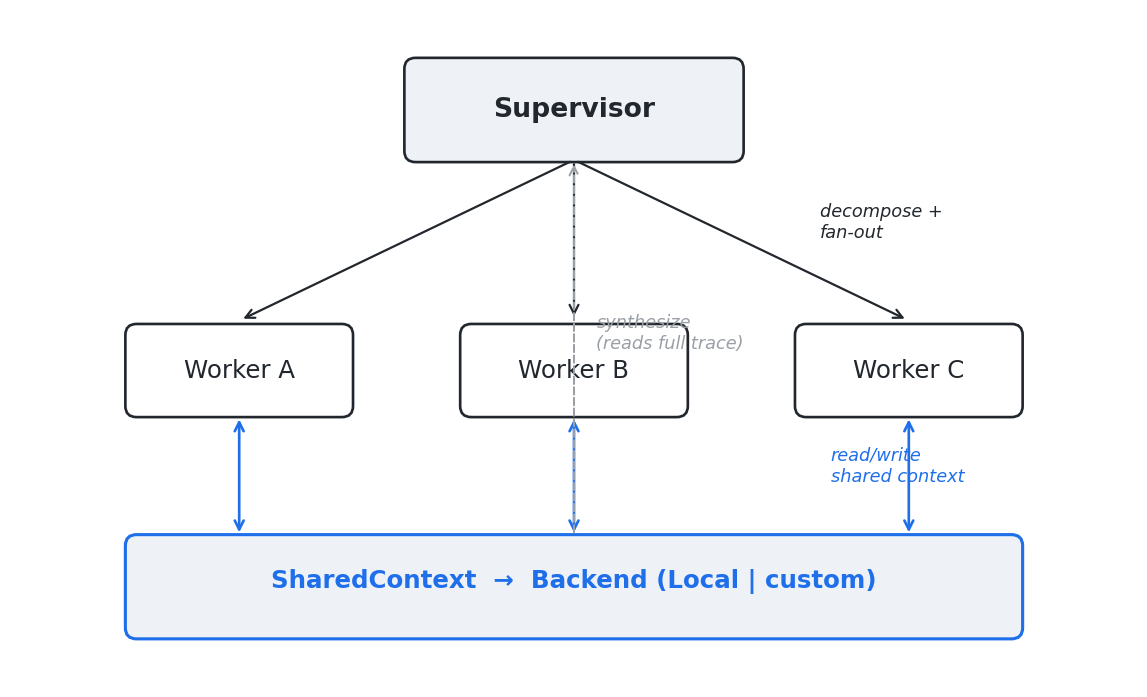
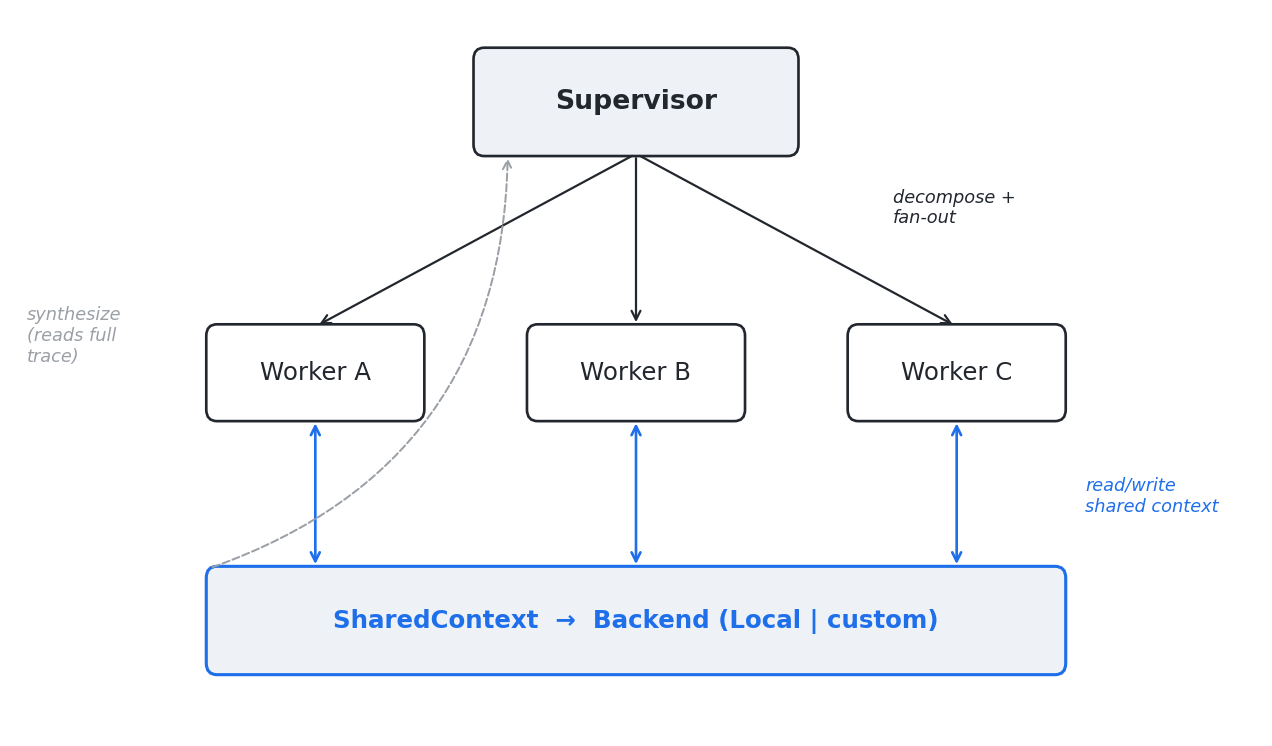
polish: tier-1/2 OSS launch improvements
- Fix architecture diagram: labels no longer overlap worker boxes
- Add CI badge to README badge row
- Add 'What this is not' callout near top of README
- Reframe benchmark section: lead with coordination wins, demote accuracy tie
- Soften 'Don't use it if' for existing framework users
- Add comparison table footnote about adjacent tools
- Trim v0.2 roadmap from 5 items to 2 focused ones
- Set GitHub repo description and topics

diff --git a/docs/diagrams/_make_architecture.py b/docs/diagrams/_make_architecture.py
@@ -25,14 +25,14 @@ LIGHT = "#eef2f7"
 
 
 def main() -> None:
-    fig, ax = plt.subplots(figsize=(9, 5.4), dpi=160)
-    ax.set_xlim(0, 100)
-    ax.set_ylim(0, 60)
+    fig, ax = plt.subplots(figsize=(10, 5.8), dpi=160)
+    ax.set_xlim(-8, 108)   # extra margins so side labels aren't clipped
+    ax.set_ylim(0, 62)
     ax.axis("off")
 
     # Supervisor box (top)
     sup = patches.FancyBboxPatch(
-        (35, 47),
+        (35, 50),
         30,
         9,
         boxstyle="round,pad=0.2,rounding_size=1.0",
@@ -43,7 +43,7 @@ def main() -> None:
     ax.add_patch(sup)
     ax.text(
         50,
-        51.5,
+        54.5,
         "Supervisor",
         ha="center",
         va="center",
@@ -57,7 +57,7 @@ def main() -> None:
     worker_names = ["Worker A", "Worker B", "Worker C"]
     for x, name in zip(worker_x, worker_names, strict=True):
         box = patches.FancyBboxPatch(
-            (x, 24),
+            (x, 27),
             20,
             8,
             boxstyle="round,pad=0.2,rounding_size=1.0",
@@ -66,11 +66,11 @@ def main() -> None:
             facecolor="white",
         )
         ax.add_patch(box)
-        ax.text(x + 10, 28, name, ha="center", va="center", color=CHARCOAL, fontsize=11)
+        ax.text(x + 10, 31, name, ha="center", va="center", color=CHARCOAL, fontsize=11)
 
     # Shared context (bottom)
     sc = patches.FancyBboxPatch(
-        (10, 4),
+        (10, 5),
         80,
         9,
         boxstyle="round,pad=0.2,rounding_size=1.0",
@@ -81,7 +81,7 @@ def main() -> None:
     ax.add_patch(sc)
     ax.text(
         50,
-        9,
+        9.5,
         "SharedContext  →  Backend (Local | custom)",
         ha="center",
         va="center",
@@ -94,30 +94,55 @@ def main() -> None:
     for x in worker_x:
         ax.annotate(
             "",
-            xy=(x + 10, 32.5),
-            xytext=(50, 47),
+            xy=(x + 10, 35),
+            xytext=(50, 50),
             arrowprops=dict(arrowstyle="->", color=CHARCOAL, lw=1.0),
         )
-    ax.text(72, 40, "decompose +\nfan-out", color=CHARCOAL, fontsize=8, style="italic")
+    # Label sits to the right of the rightmost arrow, clear of all boxes
+    ax.text(74, 44, "decompose +\nfan-out", color=CHARCOAL, fontsize=8, style="italic")
 
-    # Workers ↔ shared context (read/write)
+    # Workers ↔ SharedContext (read/write) — bidirectional
     for x in worker_x:
         ax.annotate(
             "",
-            xy=(x + 10, 13),
-            xytext=(x + 10, 24),
+            xy=(x + 10, 14),
+            xytext=(x + 10, 27),
             arrowprops=dict(arrowstyle="<->", color=ACCENT, lw=1.2),
         )
-    ax.text(73, 18, "read/write\nshared context", color=ACCENT, fontsize=8, style="italic")
+    # Label in the right margin, between the worker row and SharedContext
+    ax.text(
+        92,
+        19,
+        "read/write\nshared context",
+        color=ACCENT,
+        fontsize=8,
+        style="italic",
+        ha="left",
+    )
 
-    # Shared context → supervisor (synthesis input)
+    # SharedContext → Supervisor (synthesis) — curved LEFT to avoid workers
     ax.annotate(
         "",
-        xy=(50, 47),
-        xytext=(50, 13),
-        arrowprops=dict(arrowstyle="->", color=GREY, lw=0.9, linestyle="dashed"),
+        xy=(38, 50),
+        xytext=(10, 14),
+        arrowprops=dict(
+            arrowstyle="->",
+            color=GREY,
+            lw=0.9,
+            linestyle="dashed",
+            connectionstyle="arc3,rad=0.35",
+        ),
     )
-    ax.text(52, 30, "synthesize\n(reads full trace)", color=GREY, fontsize=8, style="italic")
+    # Label in the left margin
+    ax.text(
+        -7,
+        32,
+        "synthesize\n(reads full\ntrace)",
+        color=GREY,
+        fontsize=8,
+        style="italic",
+        ha="left",
+    )
 
     out = Path(__file__).parent / "architecture.png"
     fig.savefig(out, dpi=160, bbox_inches="tight", facecolor="white")
